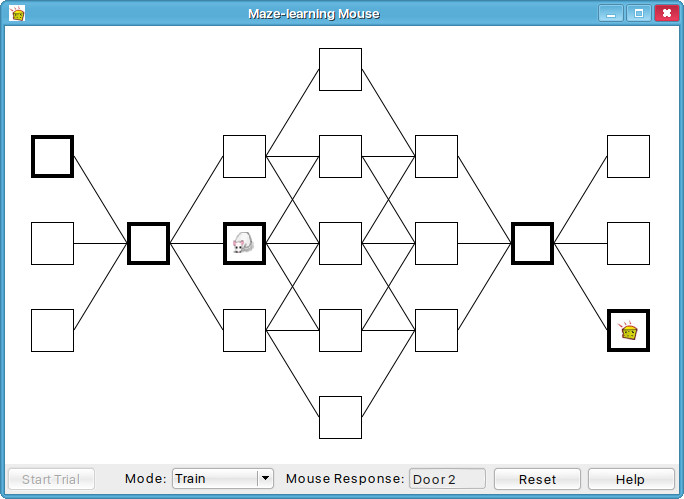
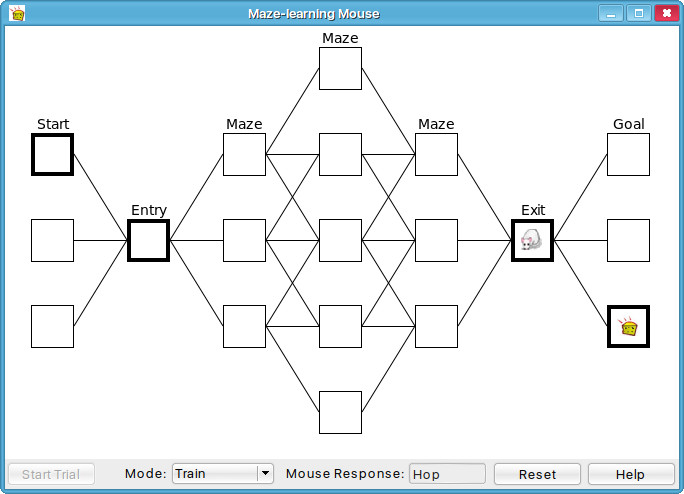
Added txt labels to MazeMouse

diff --git a/examples/MazeMouse/MazeCtrl.cpp b/examples/MazeMouse/MazeCtrl.cpp
@@ -99,7 +99,19 @@ void MazeCtrl::Paint(Draw& w) {
 	
 	screen_to_room.Clear();
 	
+	Font fnt = Arial(14);
+	
 	for(int i = 0; i < app->maze.GetCount(); i++) {
+		
+		String title;
+		if (i == 0)			title = "Start";
+		else if (i == 1)	title = "Entry";
+		else if (i > 1 && i < app->maze.GetCount()-2)	title = "Maze";
+		else if (i == app->maze.GetCount() - 2) title = "Exit";
+		else title = "Goal";
+		Size txt_sz = GetTextSize(title, fnt);
+		
+		
 		Array<Room>& vert = app->maze[i];
 		for(int j = 0; j < vert.GetCount(); j++) {
 			Room& room = vert[j];
@@ -109,6 +121,12 @@ void MazeCtrl::Paint(Draw& w) {
 			int t = vert_pos	* h_grid; // top ...
 			int x = l + (w_grid - box_grid) / 2;
 			int y = t + (h_grid - box_grid) / 2;
+			
+			if (j == 0) {
+				int tx = l + (w_grid - txt_sz.cx) / 2;
+				int ty = t + 4;
+				id.DrawText(tx, ty, title, fnt, Black());
+			}
 			
 			if (room.selected) {
 				id.DrawRect(x, y, width, height, Black());
